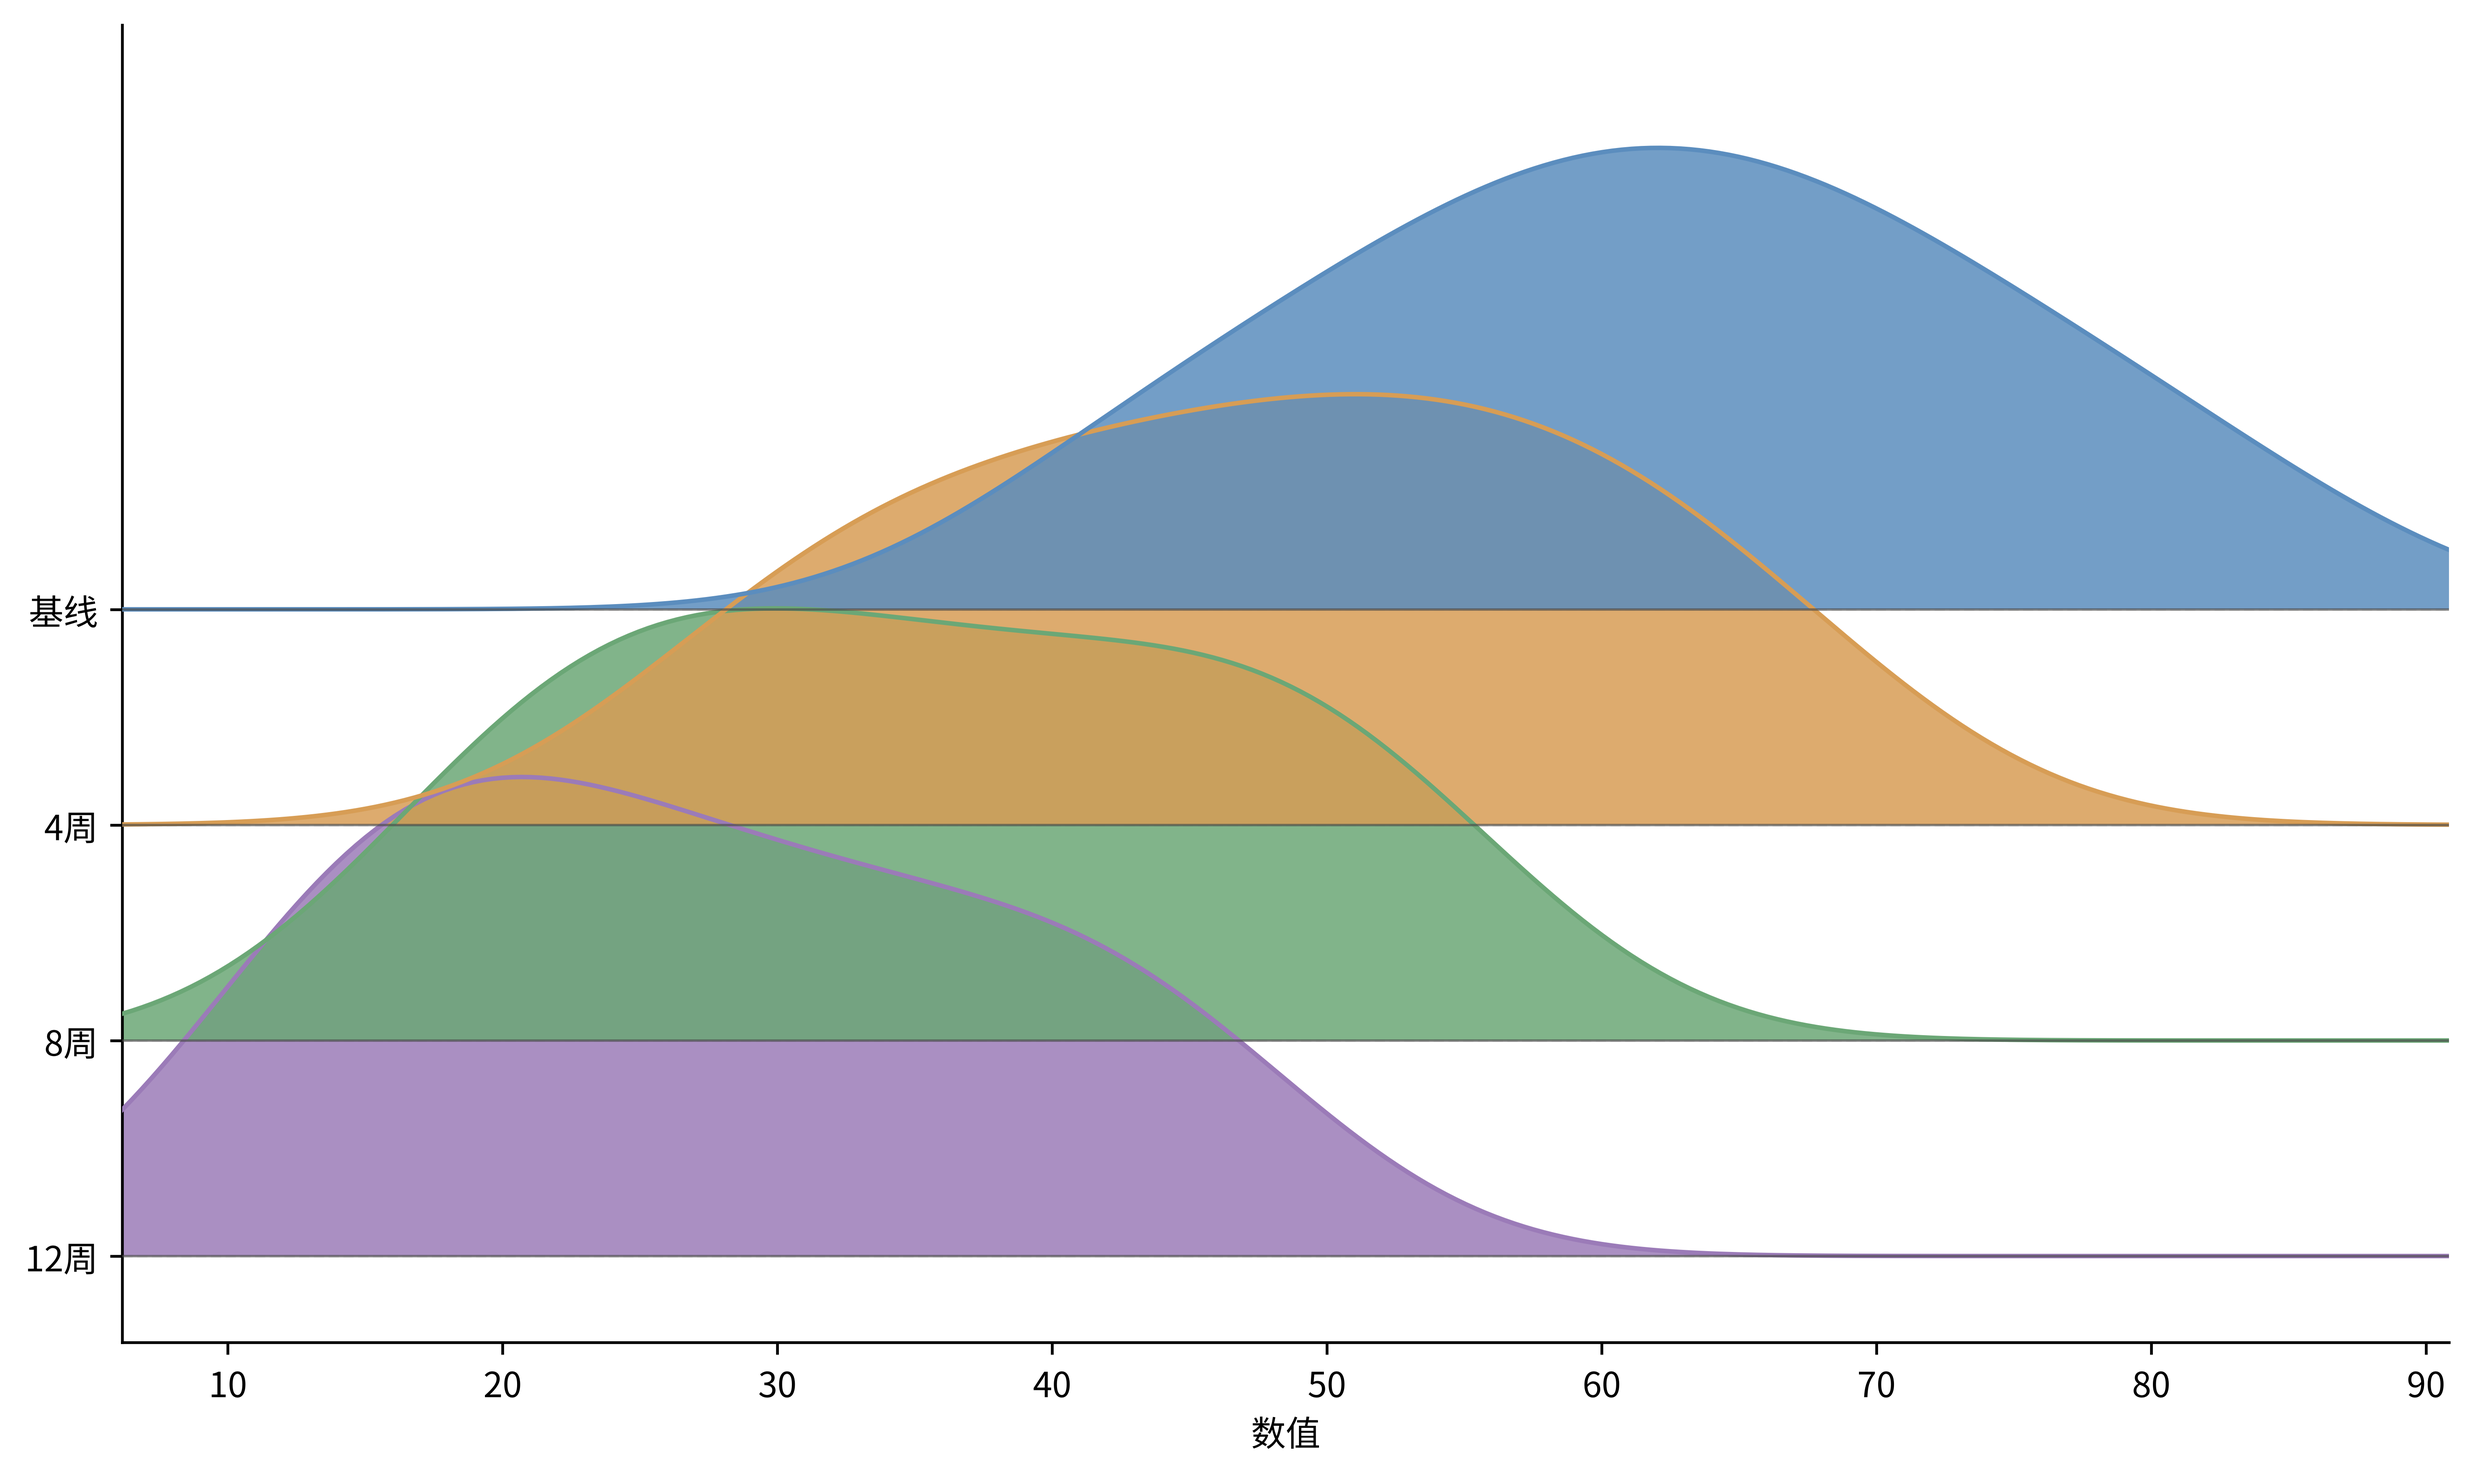
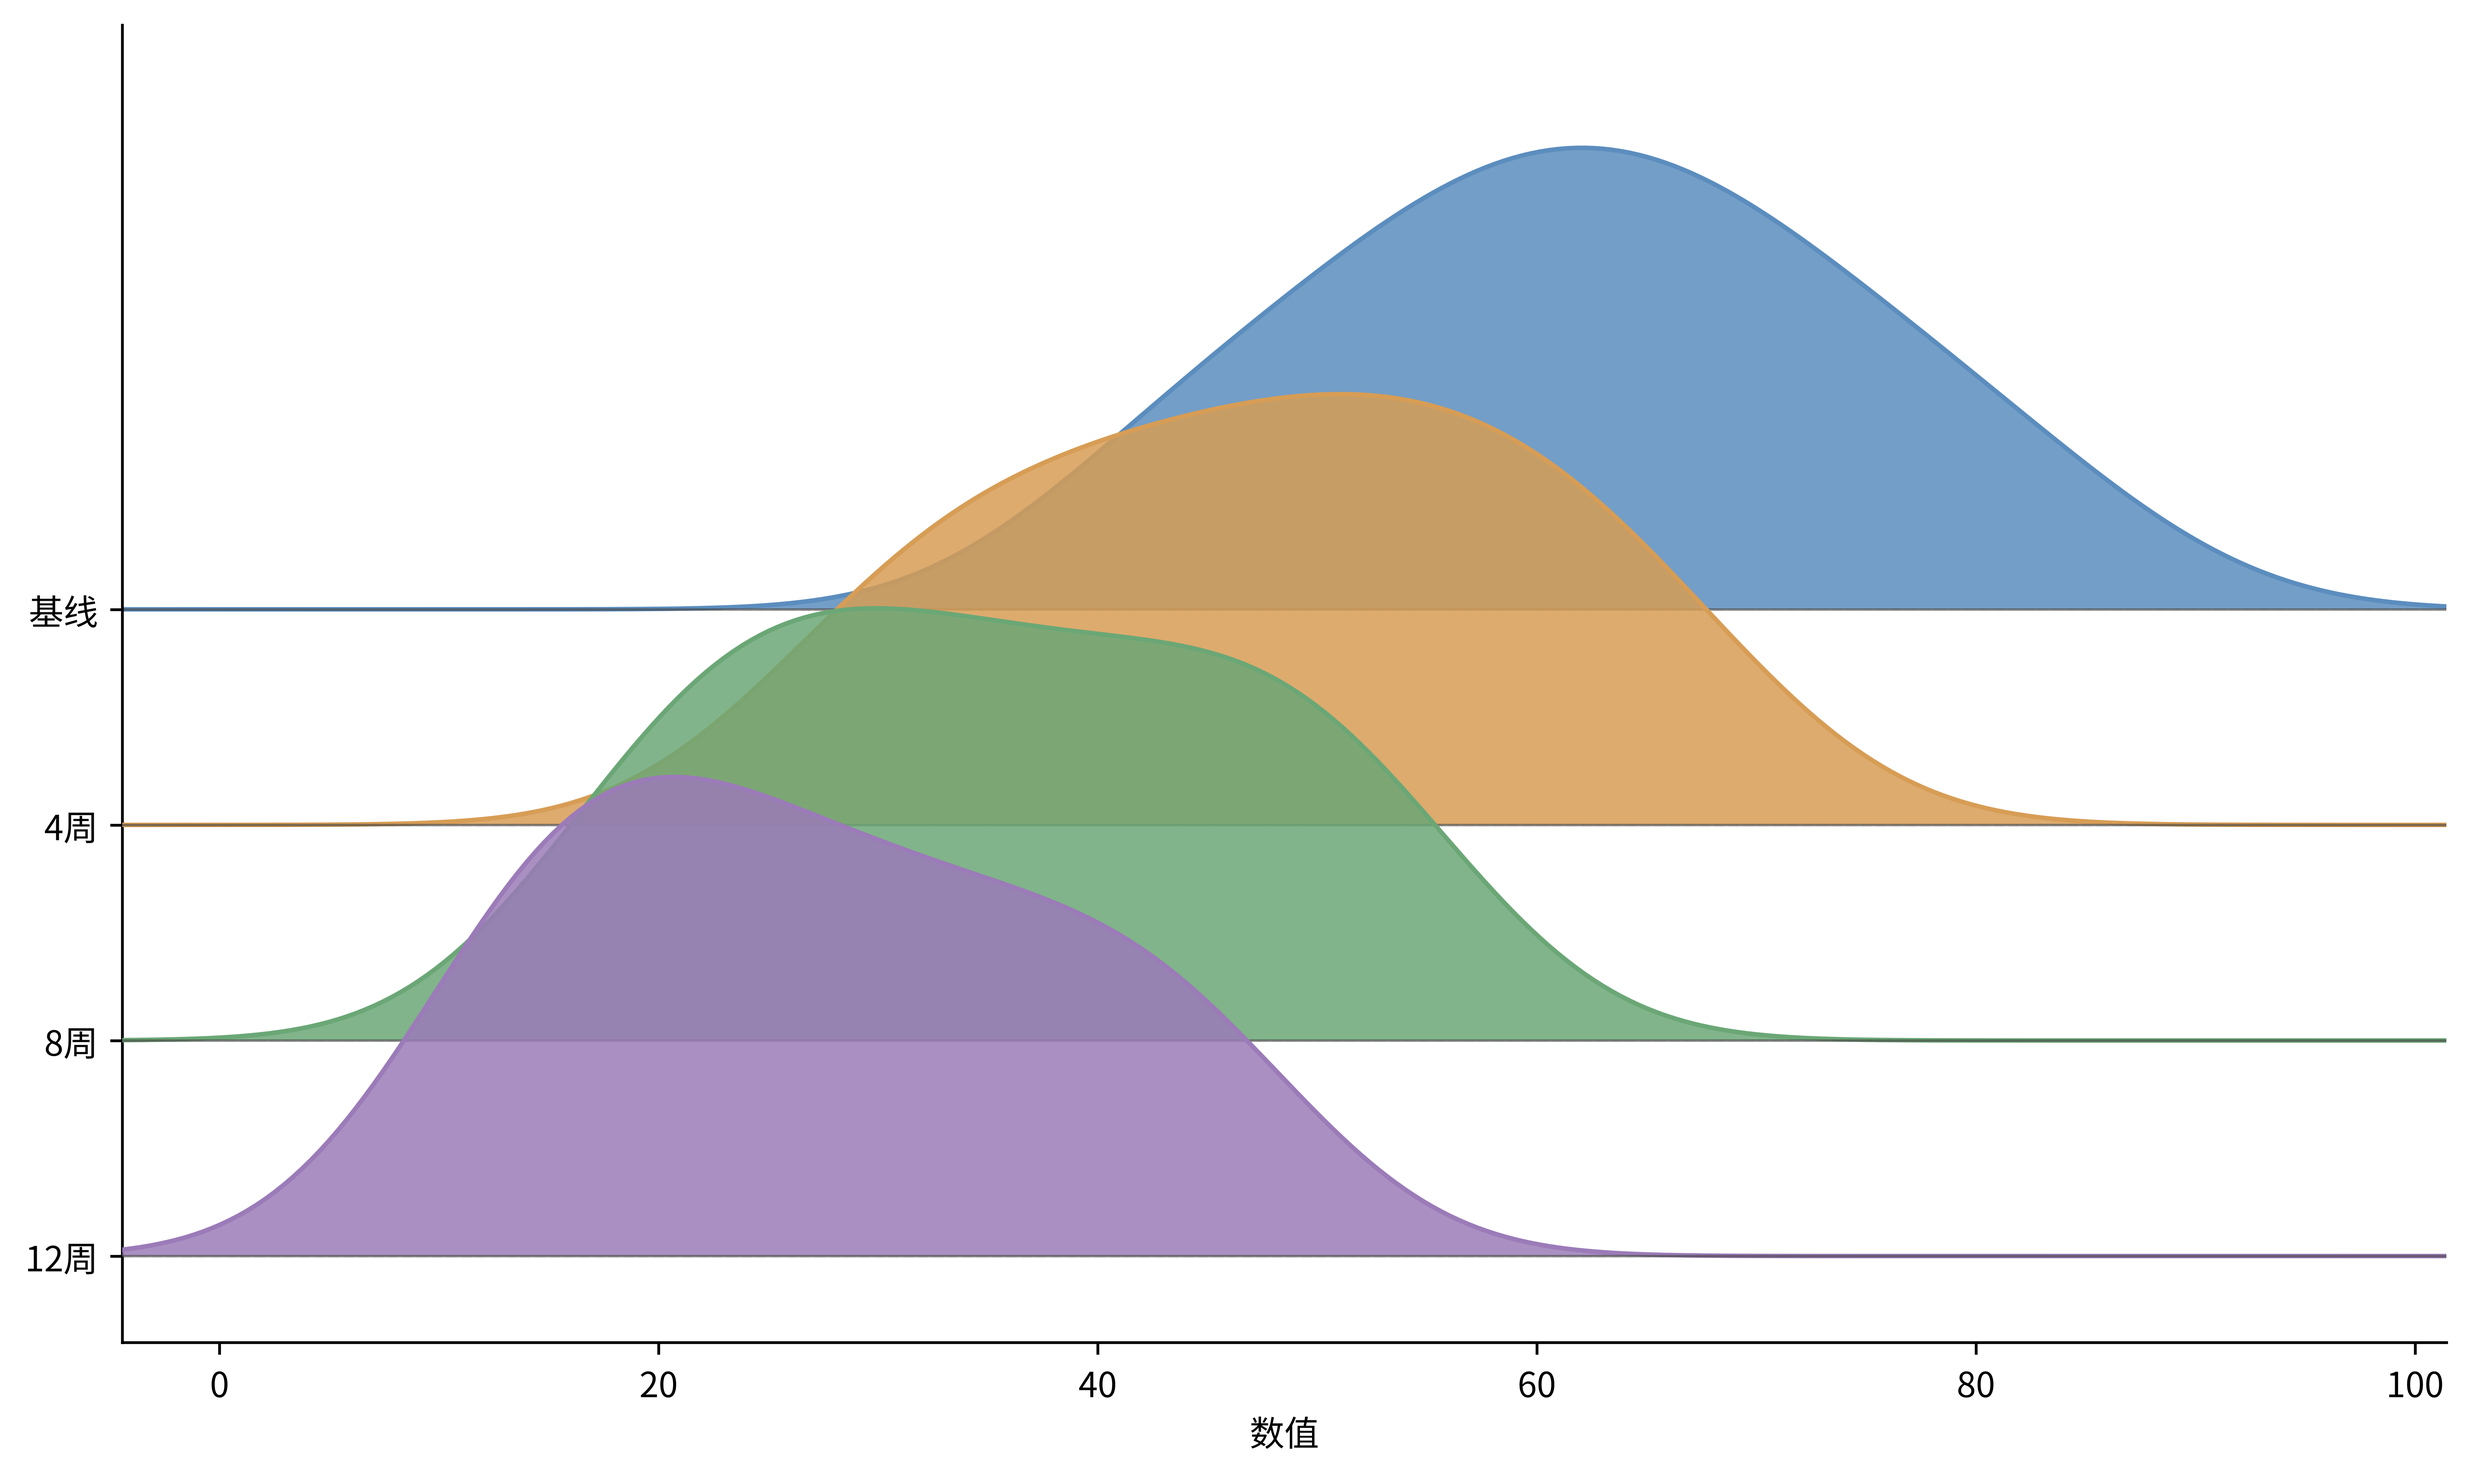
ridgeline painter-algorithm fix: per-ridge layer zorder (was: outlines always over fills) + wider grid for tail fall-down

diff --git a/mcp/af_engine/af_draw.py b/mcp/af_engine/af_draw.py
@@ -3290,8 +3290,8 @@ def gen_ridgeline(data, ax, theme, cjk_fp, **kwargs):
 
     allv = np.concatenate([np.asarray([float(x) for x in series[k]], dtype=float) for k in names])
     gmin, gmax = float(allv.min()), float(allv.max())
-    pad = 0.08 * (gmax - gmin if gmax > gmin else max(1.0, abs(gmin)))
-    grid = np.linspace(gmin - pad, gmax + pad, 240)
+    pad = 0.15 * (gmax - gmin if gmax > gmin else max(1.0, abs(gmin)))
+    grid = np.linspace(gmin - 1.5 * pad, gmax + 1.5 * pad, 260)
     dens = {}
     for k in names:
         v = np.asarray([float(x) for x in series[k]], dtype=float)
@@ -3310,22 +3310,25 @@ def gen_ridgeline(data, ax, theme, cjk_fp, **kwargs):
     step = 1.0 - overlap
     bases = {k: (n - 1 - i) * step for i, k in enumerate(names)}  # i=0 在顶
     degenerate = []
-    # 画家算法：自底向上画，上排山脊覆盖下排填充
+    # 画家算法：自底向上画，且每条山脊 fill/outline 同层 zorder 按位次递增——
+    # 上排山脊整体（含轮廓）覆盖下排重叠区（验收 P1：分层 zorder 会让下排轮廓
+    # 骑压上排填充，视觉上"下排覆盖上排"）
     for k in reversed(names):
         color = theme["colors"][names.index(k) % len(theme["colors"])]
         base = bases[k]
+        z = 2.0 + names.index(k)  # 上排 zorder 更大，整层覆盖下排
         if dens[k] is None:
             v0 = float(np.asarray([float(x) for x in series[k]], dtype=float)[0])
             ax.plot([v0, v0], [base, base + 0.45], color=color, lw=3.5,
-                    solid_capstyle="butt", alpha=0.85, zorder=3)
+                    solid_capstyle="butt", alpha=0.85, zorder=z)
             degenerate.append(k)
             continue
         d = dens[k] / hmax
         ax.fill_between(grid, base, base + d, facecolor=color, alpha=0.85,
-                        edgecolor="none", zorder=2)
-        ax.plot(grid, base + d, color=color, lw=1.3, zorder=3)
+                        edgecolor="none", zorder=z)
+        ax.plot(grid, base + d, color=color, lw=1.3, zorder=z + 0.01)
         ax.plot([grid[0], grid[-1]], [base, base], color="#4A4A4A", lw=0.7,
-                alpha=0.65, zorder=3)
+                alpha=0.65, zorder=z + 0.01)
     ax.set_yticks([bases[k] for k in names])
     ax.set_yticklabels(names, fontsize=fs_s,
                        fontproperties=cjk_fp if cjk_fp and has_cjk("".join(names)) else None)

diff --git a/scripts/af_draw.py b/scripts/af_draw.py
@@ -3290,8 +3290,8 @@ def gen_ridgeline(data, ax, theme, cjk_fp, **kwargs):
 
     allv = np.concatenate([np.asarray([float(x) for x in series[k]], dtype=float) for k in names])
     gmin, gmax = float(allv.min()), float(allv.max())
-    pad = 0.08 * (gmax - gmin if gmax > gmin else max(1.0, abs(gmin)))
-    grid = np.linspace(gmin - pad, gmax + pad, 240)
+    pad = 0.15 * (gmax - gmin if gmax > gmin else max(1.0, abs(gmin)))
+    grid = np.linspace(gmin - 1.5 * pad, gmax + 1.5 * pad, 260)
     dens = {}
     for k in names:
         v = np.asarray([float(x) for x in series[k]], dtype=float)
@@ -3310,22 +3310,25 @@ def gen_ridgeline(data, ax, theme, cjk_fp, **kwargs):
     step = 1.0 - overlap
     bases = {k: (n - 1 - i) * step for i, k in enumerate(names)}  # i=0 在顶
     degenerate = []
-    # 画家算法：自底向上画，上排山脊覆盖下排填充
+    # 画家算法：自底向上画，且每条山脊 fill/outline 同层 zorder 按位次递增——
+    # 上排山脊整体（含轮廓）覆盖下排重叠区（验收 P1：分层 zorder 会让下排轮廓
+    # 骑压上排填充，视觉上"下排覆盖上排"）
     for k in reversed(names):
         color = theme["colors"][names.index(k) % len(theme["colors"])]
         base = bases[k]
+        z = 2.0 + names.index(k)  # 上排 zorder 更大，整层覆盖下排
         if dens[k] is None:
             v0 = float(np.asarray([float(x) for x in series[k]], dtype=float)[0])
             ax.plot([v0, v0], [base, base + 0.45], color=color, lw=3.5,
-                    solid_capstyle="butt", alpha=0.85, zorder=3)
+                    solid_capstyle="butt", alpha=0.85, zorder=z)
             degenerate.append(k)
             continue
         d = dens[k] / hmax
         ax.fill_between(grid, base, base + d, facecolor=color, alpha=0.85,
-                        edgecolor="none", zorder=2)
-        ax.plot(grid, base + d, color=color, lw=1.3, zorder=3)
+                        edgecolor="none", zorder=z)
+        ax.plot(grid, base + d, color=color, lw=1.3, zorder=z + 0.01)
         ax.plot([grid[0], grid[-1]], [base, base], color="#4A4A4A", lw=0.7,
-                alpha=0.65, zorder=3)
+                alpha=0.65, zorder=z + 0.01)
     ax.set_yticks([bases[k] for k in names])
     ax.set_yticklabels(names, fontsize=fs_s,
                        fontproperties=cjk_fp if cjk_fp and has_cjk("".join(names)) else None)
